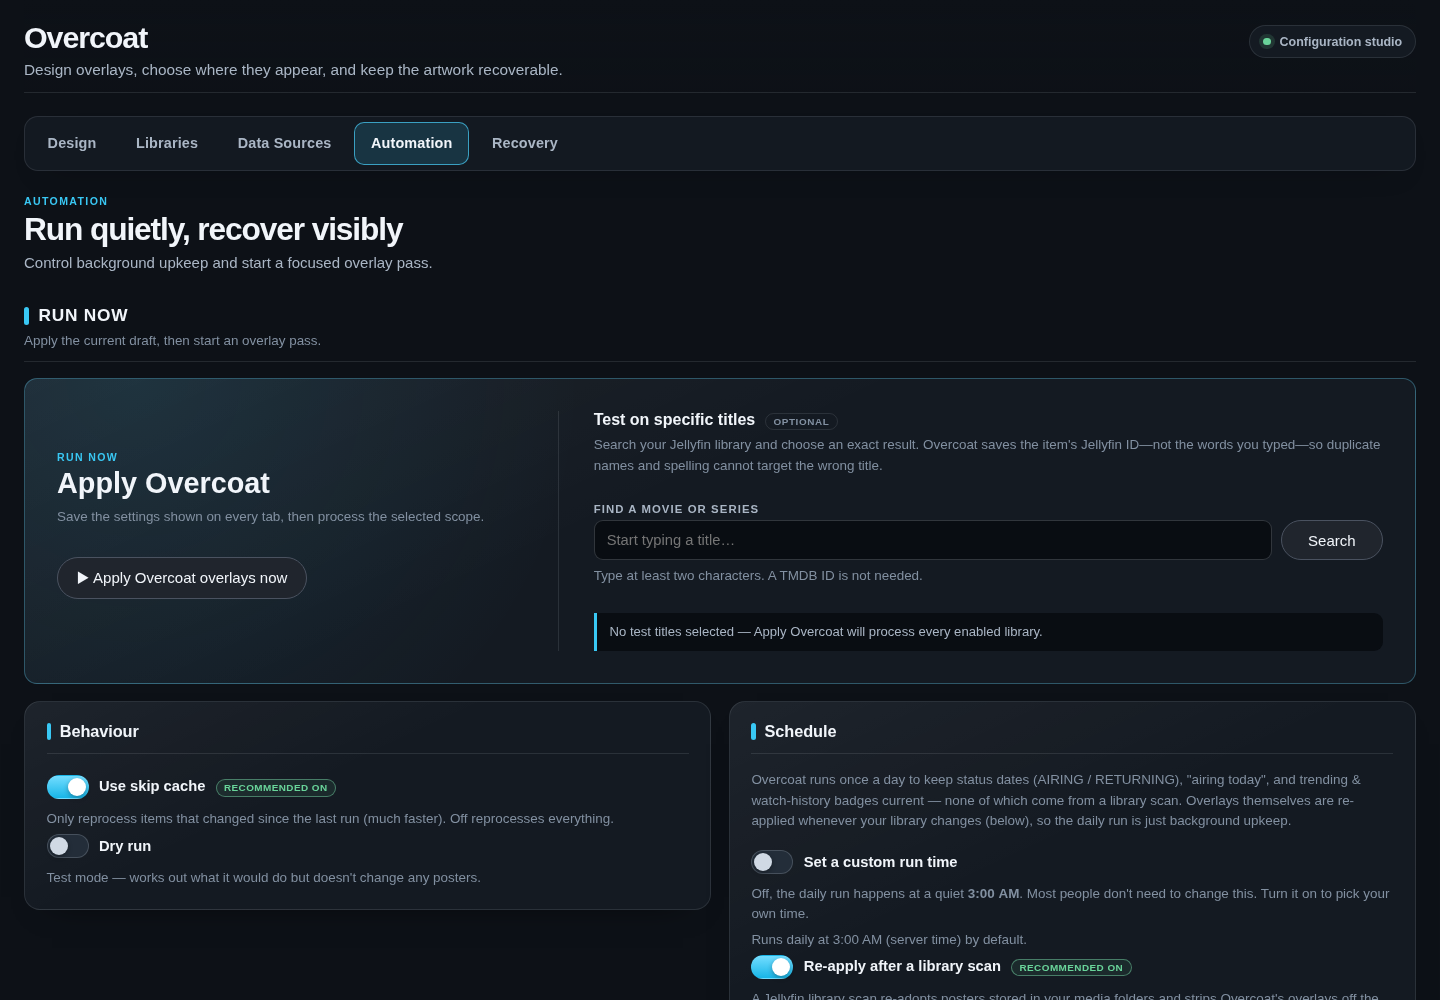
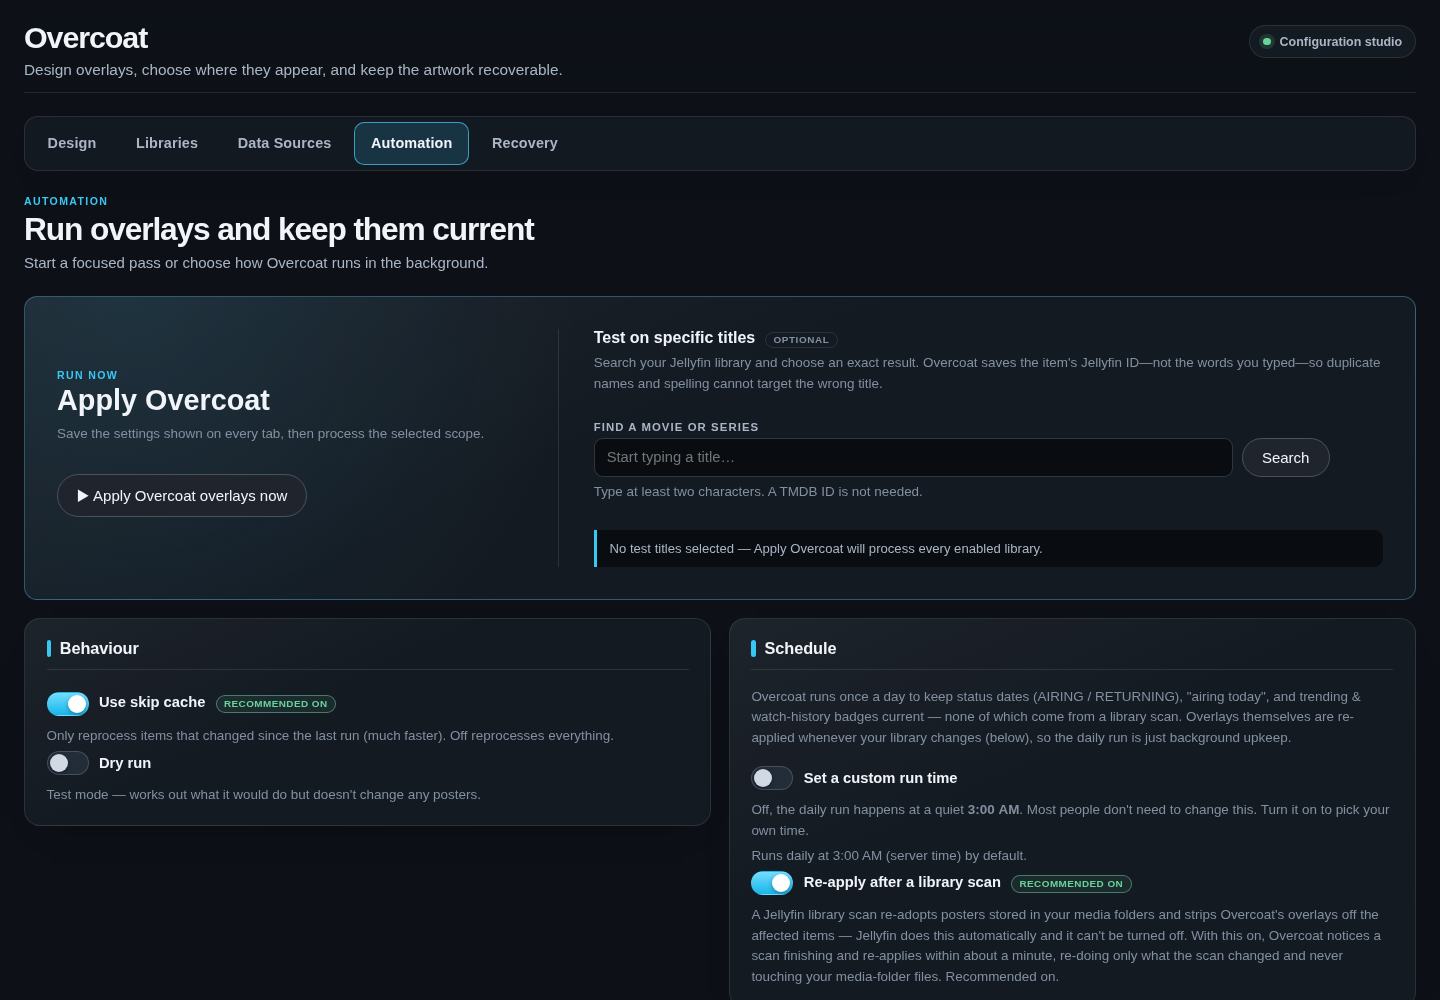
Polish Automation and recovery actions

diff --git a/Jellyfin.Plugin.Overcoat/Configuration/configPage.css b/Jellyfin.Plugin.Overcoat/Configuration/configPage.css
@@ -399,9 +399,12 @@
     display: inline-flex; margin-left: .35rem; padding: .12rem .45rem; border: 1px solid var(--ov-border);
     border-radius: 99px; color: var(--ov-faint); font-size: .62rem; letter-spacing: .06em; text-transform: uppercase;
 }
-#OvercoatConfigPage .ovcTitleSearch { min-width: 0; }
+#OvercoatConfigPage .ovcTitleSearch { width: min(100%, 46rem); min-width: 0; justify-self: start; }
 #OvercoatConfigPage .ovcSearchRow { display: grid; grid-template-columns: minmax(0, 1fr) auto; gap: .55rem; align-items: stretch; }
-#OvercoatConfigPage .ovcSearchRow button { margin: 0; min-width: 6.4rem; }
+#OvercoatConfigPage .ovcSearchRow button {
+    justify-self: start; width: auto !important; min-width: 5.5rem; max-width: 7rem;
+    margin: 0; padding: .58rem .9rem !important;
+}
 #OvercoatConfigPage .ovcTitleResults {
     overflow: hidden; border: 1px solid var(--ov-border-strong); border-radius: 11px;
     background: var(--ov-canvas); box-shadow: 0 18px 36px -28px rgba(0,0,0,.9);
@@ -440,11 +443,23 @@
 #OvercoatConfigPage .ovcLegacyChip { display: inline-flex; margin: .35rem .35rem 0 0; padding: .28rem .5rem; border-radius: 7px; background: var(--ov-surface-2); }
 #OvercoatConfigPage #OvercoatIgnoreCard { display: grid; gap: .8rem; }
 #OvercoatConfigPage #OvercoatIgnoreCard > h3 { margin-bottom: 0; }
-#OvercoatConfigPage .ovcRestoreTile { text-align: center; padding: clamp(1.5rem, 4vw, 2.4rem); }
-#OvercoatConfigPage .ovcRestoreTile > .fieldDescription { max-width: 42rem; margin: .35rem auto; }
-#OvercoatConfigPage .ovcRestoreTile .ovcCheck { max-width: 42rem; margin: .85rem auto 0; text-align: left; }
-#OvercoatConfigPage .ovcRestoreTile .checkboxContainer { justify-content: center; }
-#OvercoatConfigPage .ovcRestoreTile .ovcCheck .fieldDescription { text-align: center; }
+#OvercoatConfigPage .ovcRestoreTile {
+    display: grid; grid-template-columns: minmax(14rem, .72fr) minmax(22rem, 1.28fr);
+    align-items: center; gap: clamp(1.4rem, 4vw, 3.5rem); padding: clamp(1.5rem, 4vw, 2.4rem);
+}
+#OvercoatConfigPage .ovcRestoreHero { text-align: center; }
+#OvercoatConfigPage .ovcRestoreHero h3 { margin: .2rem 0 .35rem; font-size: clamp(1.3rem, 2vw, 1.65rem); }
+#OvercoatConfigPage .ovcRestoreHero .fieldDescription { max-width: 32rem; margin: .35rem auto; }
+#OvercoatConfigPage .ovcForceRestore {
+    display: grid; grid-template-columns: 42px minmax(0, 1fr); align-items: start; gap: .85rem;
+    min-height: 0; padding: 1rem 1.05rem; border: 1px solid color-mix(in srgb, var(--ov-warning) 38%, var(--ov-border));
+    border-radius: 13px; text-align: left;
+    background: color-mix(in srgb, var(--ov-warning) 7%, var(--ov-canvas));
+}
+#OvercoatConfigPage .ovcForceRestore input[type="checkbox"] { margin-top: .1rem; }
+#OvercoatConfigPage .ovcForceRestore > span { display: grid; gap: .28rem; min-width: 0; }
+#OvercoatConfigPage .ovcForceRestore strong { color: var(--ov-text); font-size: .92rem; line-height: 1.35; }
+#OvercoatConfigPage .ovcForceRestore small { color: var(--ov-muted); font-size: .8rem; font-weight: 400; line-height: 1.5; }
 #OvercoatConfigPage .ovcDryRunBanner {
     display: flex; align-items: flex-start; gap: .75rem; grid-column: 1 / -1;
     margin-top: .9rem; padding: .85rem 1rem; border: 1px solid color-mix(in srgb, var(--ov-warning) 68%, var(--ov-border));
@@ -514,6 +529,8 @@
 @media (max-width: 1099px) {
     #OvercoatConfigPage #OvercoatApplyTile { grid-template-columns: 1fr; }
     #OvercoatConfigPage .ovcTargetPicker { padding: 1.1rem 0 0; border-top: 1px solid var(--ov-border); border-left: 0; }
+    #OvercoatConfigPage .ovcRestoreTile { grid-template-columns: 1fr; }
+    #OvercoatConfigPage .ovcForceRestore { width: min(100%, 42rem); margin: 0 auto; }
     #OvercoatConfigPage .ovcBannerLayout { grid-template-columns: 1fr; grid-template-areas: 'surface' 'notice' 'preview' 'controls'; }
     #OvercoatConfigPage .ovcBannerPreview { position: static; max-height: none; overflow: visible; }
     #OvercoatConfigPage .ovcBannerControls { grid-template-columns: 1fr; }
@@ -551,8 +568,7 @@
     #OvercoatConfigPage .ovcBannerPreview { min-height: 0; }
     #OvercoatConfigPage .ovcBannerPreview img { max-width: 235px; }
     #OvercoatConfigPage .ovcWidePreview img { max-width: 100%; }
-    #OvercoatConfigPage .ovcSearchRow { grid-template-columns: 1fr; }
-    #OvercoatConfigPage .ovcSearchRow button { width: 100%; }
+    #OvercoatConfigPage .ovcSearchRow { grid-template-columns: 1fr auto; }
     #OvercoatConfigPage .ovcTitleResult { align-items: flex-start; flex-direction: column; gap: .2rem; }
 }
 @media (max-width: 520px) {

diff --git a/Jellyfin.Plugin.Overcoat/Configuration/configPage.html b/Jellyfin.Plugin.Overcoat/Configuration/configPage.html
@@ -520,7 +520,7 @@
 
                 <!-- ===================== MAINTENANCE ===================== -->
                 <div class="ovcPanel" data-panel="automation">
-                    <div class="ovcPageIntro ovcWide"><span class="ovcEyebrow">Automation</span><h2>Run quietly, recover visibly</h2><p>Control background upkeep and start a focused overlay pass.</p></div>
+                    <div class="ovcPageIntro ovcWide"><span class="ovcEyebrow">Automation</span><h2>Run overlays and keep them current</h2><p>Start a focused pass or choose how Overcoat runs in the background.</p></div>
                     <div class="ovcCard">
                         <h3>Behaviour</h3>
                         <div class="ovcCheck">
@@ -624,13 +624,19 @@
                                 </div>
                             </div>
                             <div class="ovcActionTile ovcRestoreTile" id="OvercoatRestoreTile">
-                                <h3>Restore originals</h3>
-                                <p class="fieldDescription">Put back clean posters and series wide cards saved in Overcoat's originals vault.</p>
-                                <button is="emby-button" type="button" id="OvercoatRestore" class="raised"><span>↩ Restore original artwork</span></button>
-                                <div class="ovcCheck">
-                                    <label class="checkboxContainer"><input is="emby-checkbox" type="checkbox" id="ForceRestore" /><span>Force restore over changed artwork</span></label>
-                                    <div class="fieldDescription">Normally Restore protects artwork changed outside Overcoat. Enable this only when the vaulted copy should win regardless.</div>
+                                <div class="ovcRestoreHero">
+                                    <span class="ovcEyebrow">Recovery action</span>
+                                    <h3>Restore originals</h3>
+                                    <p class="fieldDescription">Put back clean posters and series wide cards saved in Overcoat's originals vault.</p>
+                                    <button is="emby-button" type="button" id="OvercoatRestore" class="raised"><span>↩ Restore original artwork</span></button>
                                 </div>
+                                <label class="checkboxContainer ovcForceRestore">
+                                    <input is="emby-checkbox" type="checkbox" id="ForceRestore" />
+                                    <span>
+                                        <strong>Force restore over changed artwork</strong>
+                                        <small>Normally, Restore protects artwork changed outside Overcoat. Turn this on only when the vaulted copy should replace it anyway.</small>
+                                    </span>
+                                </label>
                             </div>
                         </div>
                     </div>
@@ -762,16 +768,12 @@
                 var targetingHeading = page.querySelector('#OvercoatTargetingHeading');
                 if (targetingHeading) { targetingHeading.remove(); }
                 var runHeading = page.querySelector('#OvercoatRunRestoreHeading');
-                if (runHeading) {
-                    runHeading.querySelector('h3').textContent = 'Run now';
-                    runHeading.querySelector('.fieldDescription').textContent = 'Apply the current draft, then start an overlay pass.';
-                }
                 var automation = page.querySelector('[data-panel="automation"]');
                 var automationIntro = automation && automation.querySelector('.ovcPageIntro');
                 var runCard = page.querySelector('#OvercoatRunRestoreCard');
-                if (automationIntro && runHeading && runCard) {
-                    automationIntro.insertAdjacentElement('afterend', runHeading);
-                    runHeading.insertAdjacentElement('afterend', runCard);
+                if (runHeading) { runHeading.remove(); }
+                if (automationIntro && runCard) {
+                    automationIntro.insertAdjacentElement('afterend', runCard);
                 }
                 var actionGrid = page.querySelector('#OvercoatRunRestoreCard .ovcActionGrid');
                 if (actionGrid) { actionGrid.classList.add('ovcSingleAction'); }

diff --git a/tools/Showcase/capture-settings.js b/tools/Showcase/capture-settings.js
@@ -137,6 +137,8 @@ const out = path.resolve(process.argv[2] || path.join(root, 'assets'));
       tabTops: [...document.querySelectorAll('.ovcTab')].map(x=>Math.round(x.getBoundingClientRect().top)),
       actionRadii: ['OvercoatRunNow','OvercoatRestore','OvercoatVaultRefresh'].map(id=>parseFloat(getComputedStyle(document.querySelector('#'+id)).borderRadius)),
       libraryActionRadii: ['OvercoatUseWideCardsAll','OvercoatUseEpisodeStillsAll'].map(id=>parseFloat(getComputedStyle(document.querySelector('#'+id)).borderRadius)),
+      forceRestoreGap: parseFloat(getComputedStyle(document.querySelector('.ovcForceRestore')).columnGap),
+      searchButtonWidths: ['OvercoatTitleSearchButton','OvercoatIgnoreSearchButton'].map(id=>Math.round(document.querySelector('#'+id).getBoundingClientRect().width)),
       runTop: document.querySelector('#OvercoatRunRestoreCard').getBoundingClientRect().top,
       behaviourTop: document.querySelector('[data-panel="automation"] .ovcCard:not(#OvercoatRunRestoreCard)').getBoundingClientRect().top,
       applyTop: document.querySelector('#OvercoatApplyTile').getBoundingClientRect().top,
@@ -158,6 +160,8 @@ const out = path.resolve(process.argv[2] || path.join(root, 'assets'));
     if (new Set(computed.tabTops).size !== 1) throw new Error('Purpose navigation is not aligned across the top.');
     if (computed.actionRadii.some(x=>x < 20)) throw new Error(`Run/Restore/Recheck actions are not rounded (${computed.actionRadii.join(', ')}).`);
     if (computed.libraryActionRadii.some(x=>x < 20)) throw new Error(`Library artwork actions are not rounded (${computed.libraryActionRadii.join(', ')}).`);
+    if (computed.forceRestoreGap < 4 || computed.forceRestoreGap > 24) throw new Error(`Force Restore switch is detached from its wording (${computed.forceRestoreGap}px gap).`);
+    if (computed.searchButtonWidths.some(x=>x > 112)) throw new Error(`Catalogue Search button is oversized (${computed.searchButtonWidths.join(', ')}).`);
     if (computed.runTop >= computed.behaviourTop) throw new Error('Run Now is not the first Automation section.');
     if (Math.abs(computed.applyWidth - computed.runWidth) > 2) throw new Error('Apply and test-title card does not span the full Run Now width.');
     if (computed.runBackground !== 'rgba(0, 0, 0, 0)') throw new Error(`Run Now still has an outer box (${computed.runBackground}).`);

diff --git a/scripts/check_config_page.js b/scripts/check_config_page.js
@@ -86,6 +86,8 @@ const requiredPatterns = [
   ['targeted runs use Jellyfin item search', /id="OvercoatTitleSearch"[\s\S]*id="LimitToItemIds"/],
   ['ignored titles use Jellyfin item search', /id="OvercoatIgnoreSearch"[\s\S]*id="IgnoreItemIds"/],
   ['stable item ids are serialized', /config\.LimitToItemIds\s*=\s*selectedTargetItems[\s\S]*config\.IgnoreItemIds\s*=\s*selectedIgnoredItems/],
+  ['force restore uses a connected safety panel', /class="checkboxContainer ovcForceRestore"[\s\S]*id="ForceRestore"[\s\S]*Force restore over changed artwork/],
+  ['redundant Automation run heading is removed', /if \(runHeading\) \{ runHeading\.remove\(\); \}/],
   ['session draft persistence exists', /sessionStorage\.setItem\(draftKey/],
   ['full form serialization exists', /config\.Libraries\s*=\s*collectLibraries\(\)/],
   ['segmented controls expose radio state', /setAttribute\('aria-checked'/],
@@ -130,6 +132,8 @@ const cssPatterns = [
   ['operation buttons stay rounded', /#OvercoatRunNow,[\s\S]*#OvercoatRestore,[\s\S]*#OvercoatVaultRefresh\s*\{[^}]*border-radius:\s*999px\s*!important/],
   ['library artwork buttons stay rounded', /#OvercoatUseWideCardsAll,[\s\S]*#OvercoatUseEpisodeStillsAll\s*\{[^}]*border-radius:\s*999px\s*!important/],
   ['library artwork buttons use warning colour', /\.ovcWarningAction\s*\{[^}]*background:\s*var\(--ov-warning\)\s*!important/],
+  ['force restore control keeps switch beside copy', /\.ovcForceRestore\s*\{[^}]*grid-template-columns:\s*42px\s+minmax\(0,\s*1fr\)/],
+  ['catalogue search buttons stay compact', /\.ovcSearchRow button\s*\{[^}]*width:\s*auto\s*!important[^}]*max-width:\s*7rem/],
   ['custom schedule fields respect their hidden state', /#ScheduleTimeRow\[hidden\]\s*\{[^}]*display:\s*none\s*!important/],
   ['Quick Look buttons resist Jellyfin full-width button styles', /\.ovcPreset\s*\{[^}]*width:\s*auto\s*!important[^}]*max-width:\s*8rem/],
   ['studio stacks below 1100px', /@media\s*\(max-width:\s*1099px\)/],

diff --git a/CONTRIBUTING.md b/CONTRIBUTING.md
@@ -120,6 +120,7 @@ Releases are cut by pushing a tag; **pushing to a branch publishes nothing.**
 | `v0.9.0-beta.3` | `0.9.0.3` | beta | follow-up studio polish and Returning-date fixes |
 | `v0.9.0-beta.4` | `0.9.0.4` | beta | action-layout cleanup and typeface calibration |
 | `v0.9.0-beta.5` | `0.9.0.5` | beta | exact Jellyfin-item targeting and action-card refinement |
+| `v0.9.0-beta.6` | `0.9.0.6` | beta | recovery safety-panel and Automation hierarchy polish |
 
 GitHub's "latest" excludes prereleases, so a beta can never appear on the stable URL. The beta channel
 is a **superset** — stable releases are published there too — so subscribing to the beta URL alone is

diff --git a/CHANGELOG.md b/CHANGELOG.md
@@ -8,6 +8,15 @@ All notable changes to Overcoat are documented here. Format follows
 
 _Nothing yet._
 
+## [0.9.0-beta.6] — 2026-07-24
+
+### Changed
+- **Force Restore is easier to read safely.** Restore Originals now separates the primary recovery
+  action from a compact inset safety panel, keeping the Force Restore switch directly beside its
+  label and explanation at desktop and mobile widths.
+- **Automation reaches the action faster.** Redundant Run Now heading copy is removed, the page
+  introduction is shorter, and both catalogue search rows stay left-aligned with compact buttons.
+
 ## [0.9.0-beta.5] — 2026-07-24
 
 ### Changed
